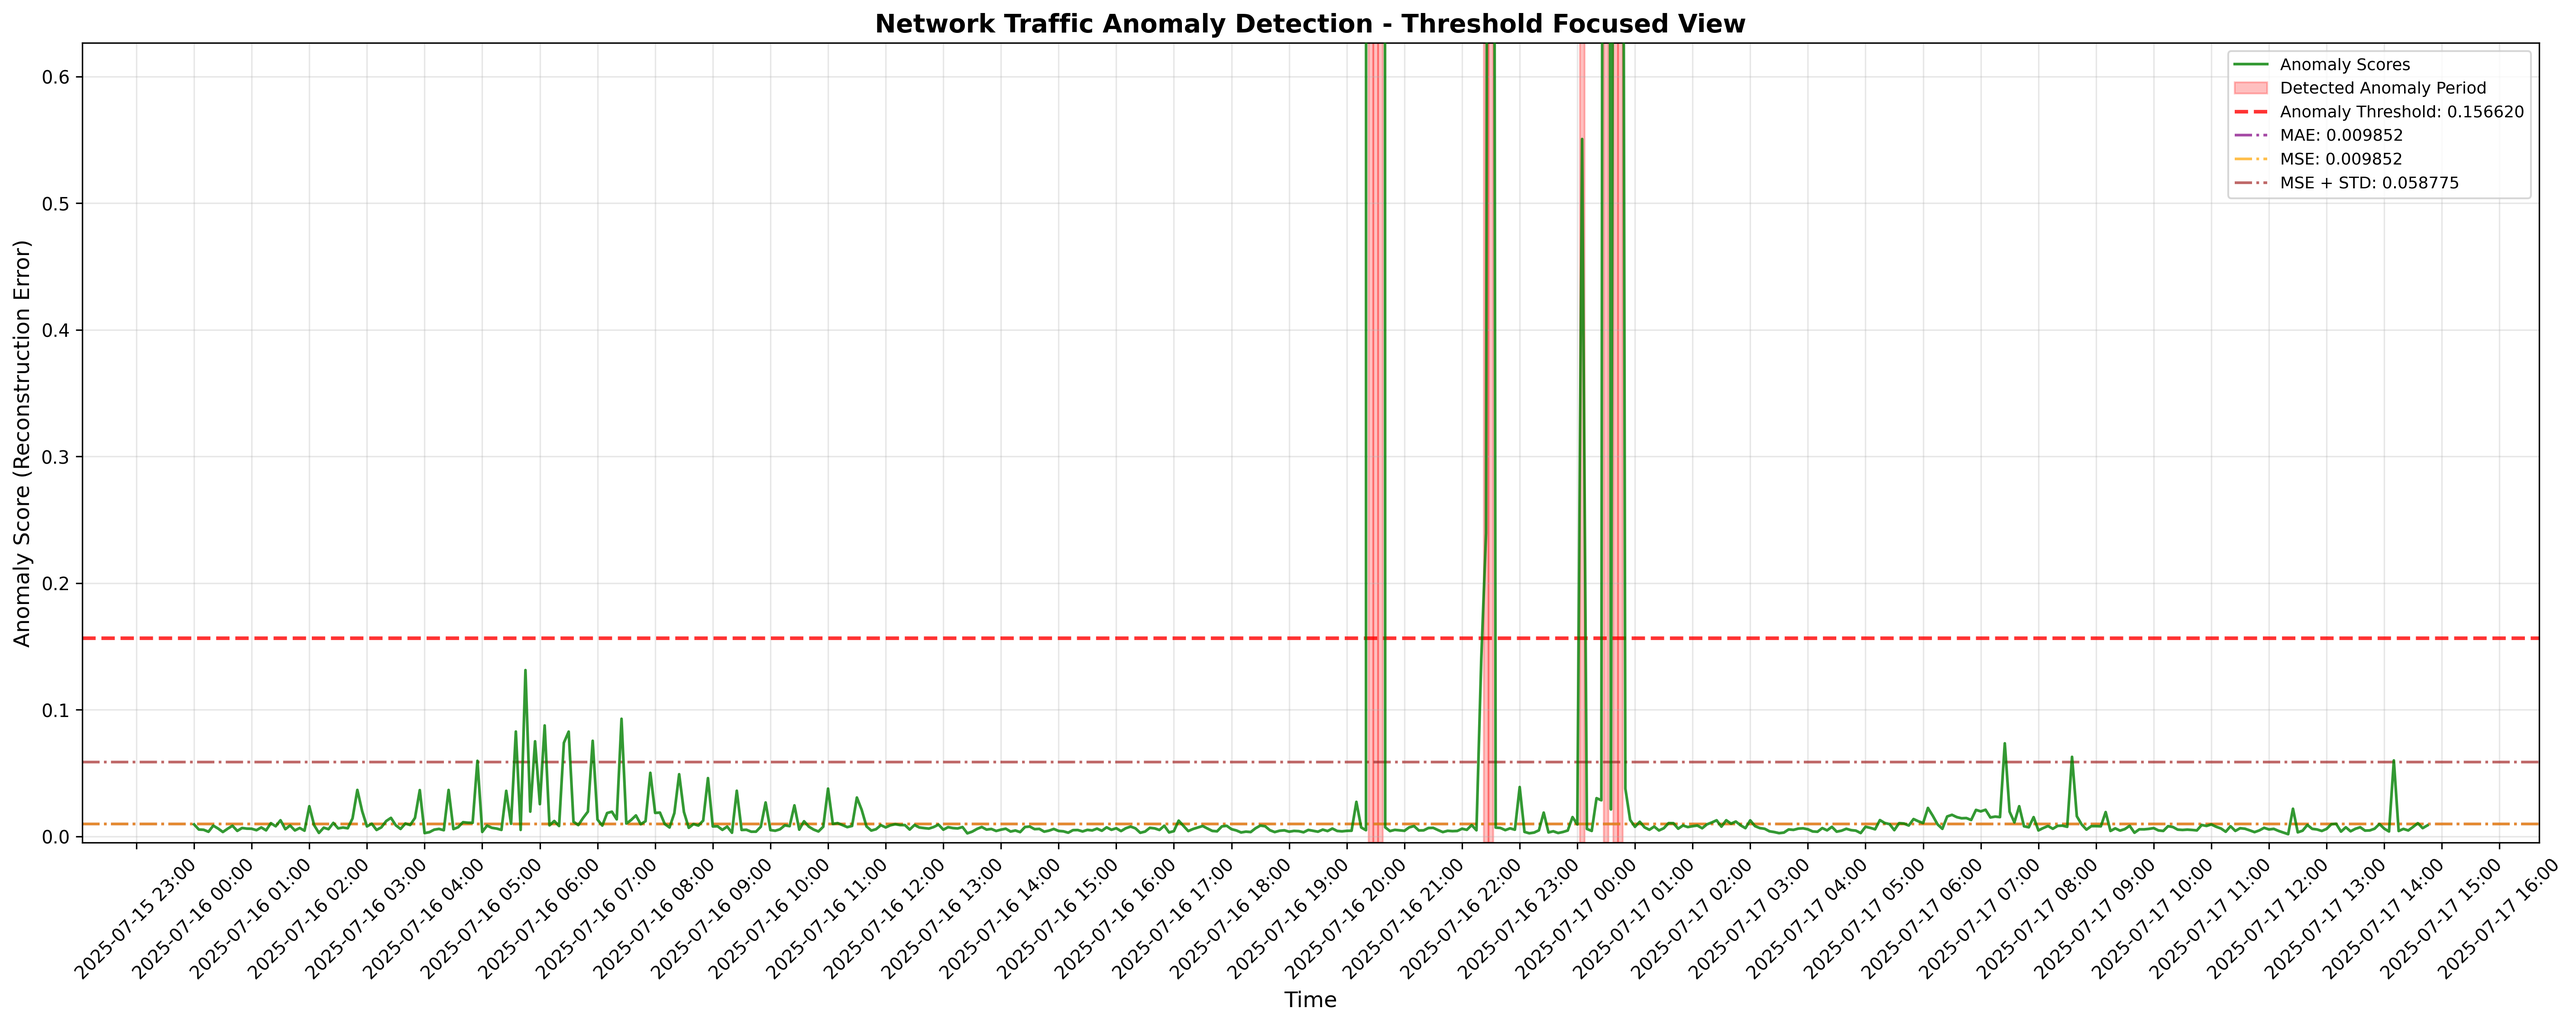
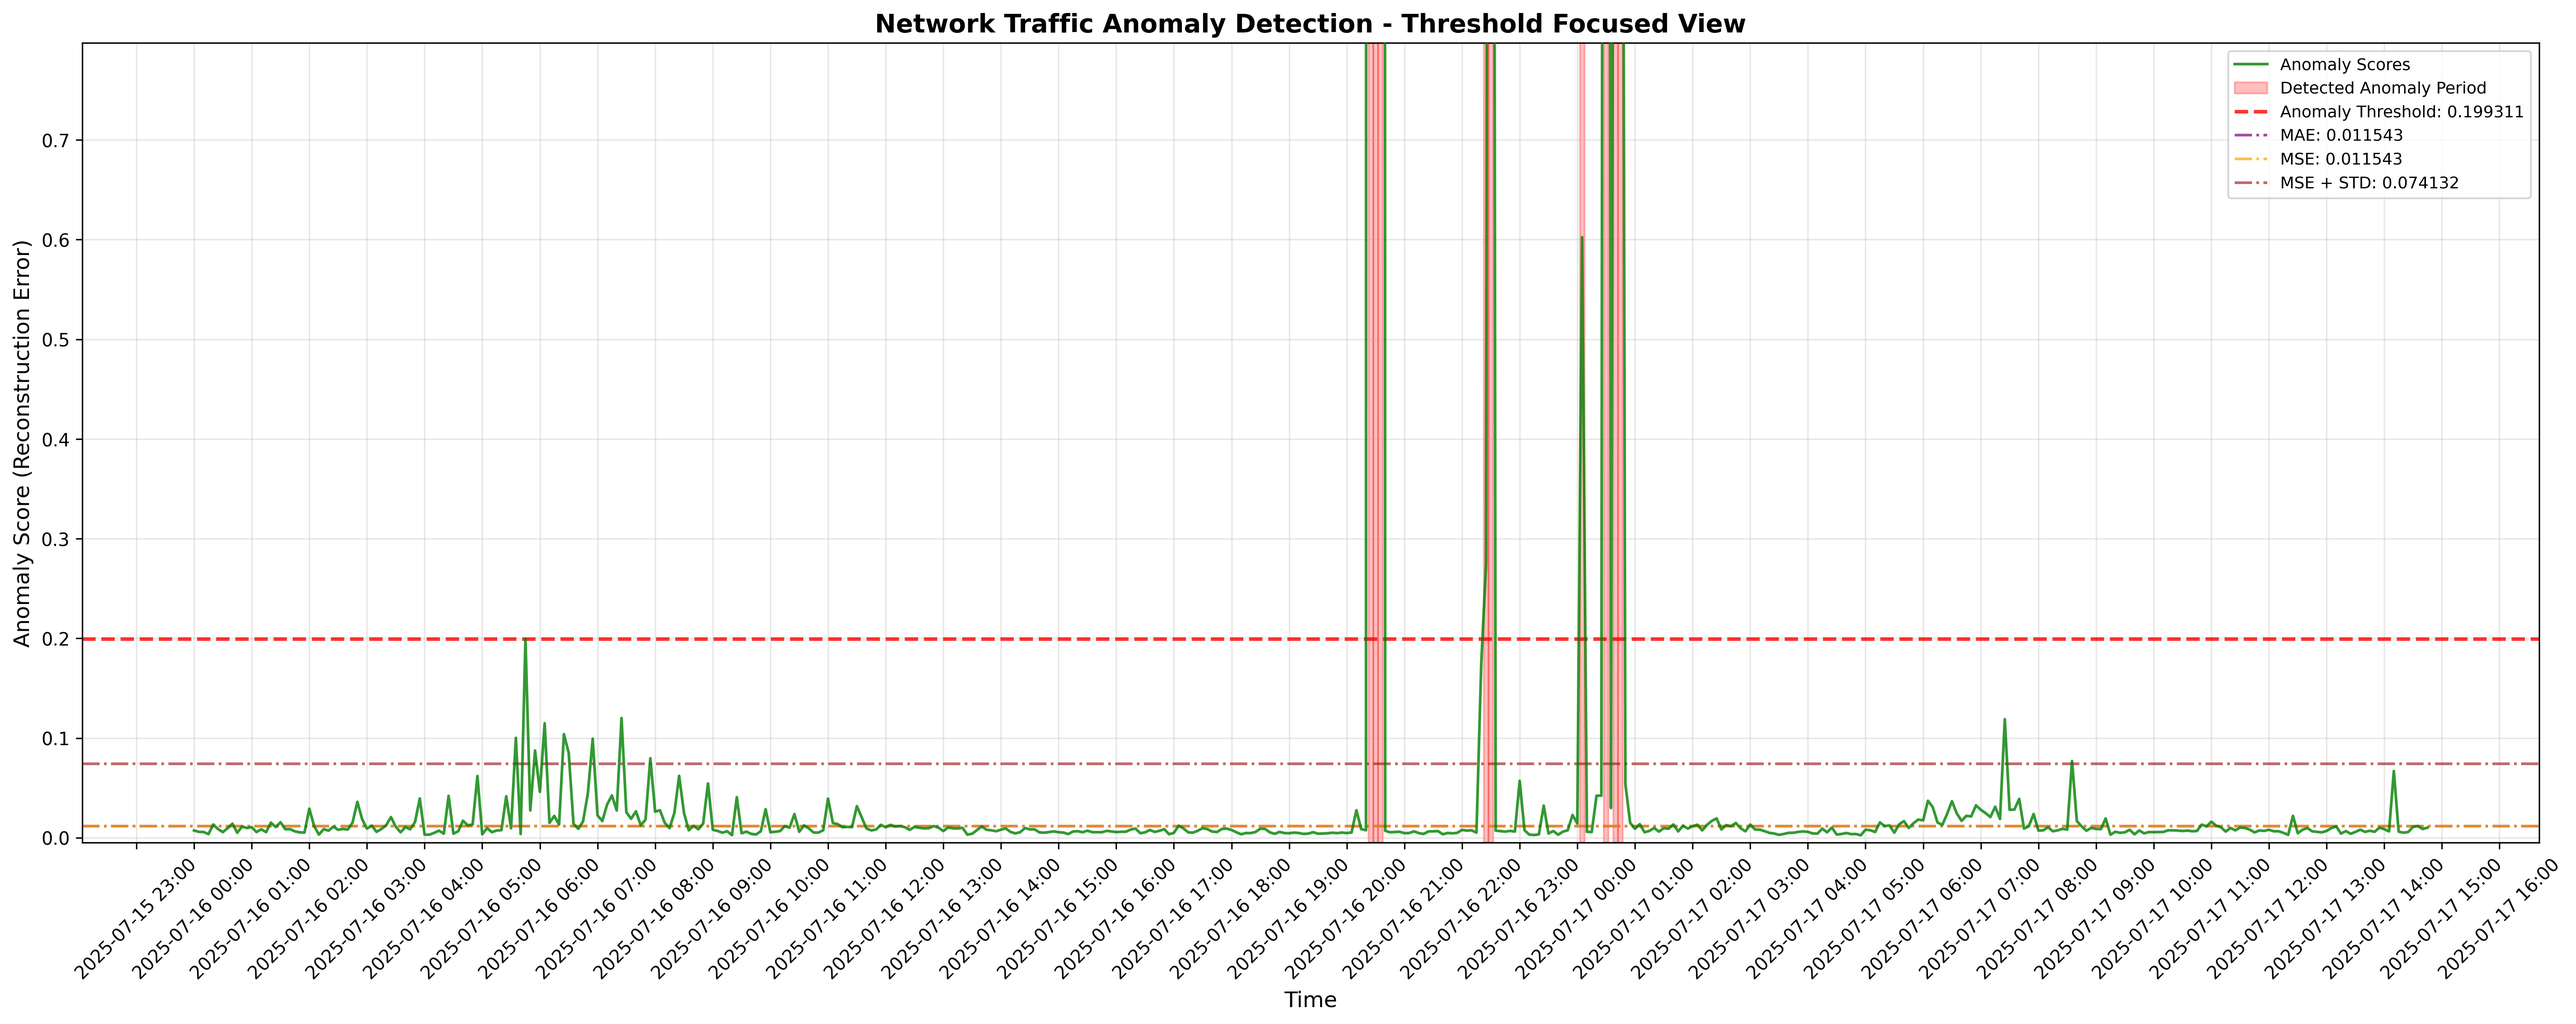
removing unused features and adding new metrics evaluation

diff --git a/framework/evaluation.py b/framework/evaluation.py
@@ -1,6 +1,10 @@
 import numpy as np
 import pandas as pd
-from sklearn.metrics import confusion_matrix, classification_report
+from sklearn.metrics import (
+    confusion_matrix, classification_report, matthews_corrcoef,
+    precision_score, recall_score, roc_auc_score, fbeta_score,
+    accuracy_score, f1_score
+)
 import os
 from .visualization.evaluation_plots import EvaluationVisualizer
 from config import ATTACK_PERIODS
@@ -58,16 +62,31 @@ class GroundTruthEvaluator:
         return ground_truth_labels, detection_labels, gt_threshold
     
     def calculate_metrics(self, y_true, y_pred):
-        """Calculate performance metrics."""
+        """Calculate comprehensive performance metrics."""
         # Confusion matrix
         tn, fp, fn, tp = confusion_matrix(y_true, y_pred).ravel()
         
-        # Calculate metrics
+        # Basic metrics
         precision = tp / (tp + fp) if (tp + fp) > 0 else 0
         recall = tp / (tp + fn) if (tp + fn) > 0 else 0
         f1 = 2 * (precision * recall) / (precision + recall) if (precision + recall) > 0 else 0
         accuracy = (tp + tn) / (tp + tn + fp + fn)
         fpr = fp / (fp + tn) if (fp + tn) > 0 else 0
+        
+        # Additional comprehensive metrics
+        mcc = matthews_corrcoef(y_true, y_pred)
+        missrate = fn / (fn + tp) if (fn + tp) > 0 else 0  # False Negative Rate
+        fallout = fp / (fp + tn) if (fp + tn) > 0 else 0   # False Positive Rate (same as fpr)
+        
+        # ROC AUC score
+        try:
+            auc = roc_auc_score(y_true, y_pred)
+        except ValueError:
+            # Handle case where only one class is present
+            auc = 0.0
+        
+        # F-beta scores
+        f2_score = fbeta_score(y_true, y_pred, beta=2, zero_division=0)
         
         return {
             'true_positives': tp,
@@ -79,6 +98,11 @@ class GroundTruthEvaluator:
             'f1_score': f1,
             'accuracy': accuracy,
             'false_positive_rate': fpr,
+            'matthews_corrcoef': mcc,
+            'miss_rate': missrate,
+            'fallout': fallout,
+            'roc_auc_score': auc,
+            'f2_score': f2_score,
             'total_samples': len(y_true),
             'attack_periods': np.sum(y_true),
             'detected_anomalies': np.sum(y_pred)
@@ -96,12 +120,23 @@ class GroundTruthEvaluator:
         print(f"Actual Normal   {metrics['true_negatives']:6d}  {metrics['false_positives']:6d}")
         print(f"       Attack   {metrics['false_negatives']:6d}  {metrics['true_positives']:6d}")
         
-        print(f"\nPerformance Metrics:")
+        print(f"\nBasic Performance Metrics:")
         print(f"  Accuracy:          {metrics['accuracy']:.4f}")
         print(f"  Precision:         {metrics['precision']:.4f}")
         print(f"  Recall:            {metrics['recall']:.4f}")
         print(f"  F1-Score:          {metrics['f1_score']:.4f}")
-        print(f"  False Positive Rate: {metrics['false_positive_rate']:.4f}\n")
+        print(f"  F2-Score:          {metrics['f2_score']:.4f}")
+        
+        print(f"\nAdvanced Performance Metrics:")
+        print(f"  Matthews Correlation Coefficient: {metrics['matthews_corrcoef']:.4f}")
+        print(f"  ROC AUC Score:     {metrics['roc_auc_score']:.4f}")
+        print(f"  Miss Rate (FNR):   {metrics['miss_rate']:.4f}")
+        print(f"  Fallout (FPR):     {metrics['fallout']:.4f}")
+        
+        print(f"\nSample Distribution:")
+        print(f"  Total Samples:     {metrics['total_samples']:,}")
+        print(f"  Attack Periods:    {metrics['attack_periods']:,}")
+        print(f"  Detected Anomalies: {metrics['detected_anomalies']:,}\n")
         
     def create_evaluation_plots(self, test_data, y_true, y_pred, detection_threshold, gt_threshold, metrics):
         """Create evaluation visualizations using the EvaluationVisualizer."""
@@ -130,3 +165,26 @@ class GroundTruthEvaluator:
         self.create_evaluation_plots(test_data, y_true, y_pred, detection_threshold, gt_threshold, metrics)
         
         return metrics
+    
+    def eval_learning(self, y_test, preds):
+        """
+        Comprehensive evaluation function similar to the suggested implementation.
+        Returns all metrics as individual values for easy use.
+        """
+        acc = accuracy_score(y_test, preds)
+        rec = recall_score(y_test, preds, zero_division=0)
+        prec = precision_score(y_test, preds, zero_division=0)
+        f1 = f1_score(y_test, preds, zero_division=0)
+        mcc = matthews_corrcoef(y_test, preds)
+        tn, fp, fn, tp = confusion_matrix(y_test, preds).ravel()
+        missrate = fn / (fn + tp) if (fn + tp) > 0 else 0
+        fallout = fp / (fp + tn) if (fp + tn) > 0 else 0
+        
+        try:
+            auc = roc_auc_score(y_test, preds)
+        except ValueError:
+            auc = 0.0
+            
+        f2_value = fbeta_score(y_test, preds, beta=2, zero_division=0)
+
+        return acc, rec, prec, f1, mcc, missrate, fallout, auc, f2_value

diff --git a/framework/features.py b/framework/features.py
@@ -54,9 +54,7 @@ class NetworkFeatureExtractor:
                 'ack_flag_ratio': 0,
                 'fin_flag_ratio': 0,
                 'rst_flag_ratio': 0,
-                'psh_flag_ratio': 0,
-                'urg_flag_ratio': 0,
-                'unique_flag_combinations': 0
+                'psh_flag_ratio': 0
             }
         
         # Convert to string and handle NaN values
@@ -69,9 +67,7 @@ class NetworkFeatureExtractor:
                 'ack_flag_ratio': 0,
                 'fin_flag_ratio': 0,
                 'rst_flag_ratio': 0,
-                'psh_flag_ratio': 0,
-                'urg_flag_ratio': 0,
-                'unique_flag_combinations': 0
+                'psh_flag_ratio': 0
             }
         
         # Count individual flags (assuming typical flag representation)
@@ -80,15 +76,12 @@ class NetworkFeatureExtractor:
         fin_count = sum(1 for f in valid_flags if 'F' in f)
         rst_count = sum(1 for f in valid_flags if 'R' in f)
         psh_count = sum(1 for f in valid_flags if 'P' in f)
-        urg_count = sum(1 for f in valid_flags if 'U' in f)
         
         flag_features['syn_flag_ratio'] = syn_count / total_flows
         flag_features['ack_flag_ratio'] = ack_count / total_flows
         flag_features['fin_flag_ratio'] = fin_count / total_flows
         flag_features['rst_flag_ratio'] = rst_count / total_flows
         flag_features['psh_flag_ratio'] = psh_count / total_flows
-        flag_features['urg_flag_ratio'] = urg_count / total_flows
-        flag_features['unique_flag_combinations'] = len(set(valid_flags))
         
         return flag_features
 
@@ -131,24 +124,18 @@ class NetworkFeatureExtractor:
             
             # IP diversity
             feature_row['unique_src_ips'] = group['srcAddr'].nunique()
-            feature_row['unique_dst_ips'] = group['dstAddr'].nunique()
             feature_row['src_ip_entropy'] = self.calculate_port_entropy(group['srcAddr'].values)
-            feature_row['dst_ip_entropy'] = self.calculate_port_entropy(group['dstAddr'].values)
             
             # AS (Autonomous System) features
             feature_row['unique_src_as'] = group['srcAS'].nunique()
-            feature_row['unique_dst_as'] = group['dstAS'].nunique()
             feature_row['src_as_entropy'] = self.calculate_as_entropy(group['srcAS'].values)
-            feature_row['dst_as_entropy'] = self.calculate_as_entropy(group['dstAS'].values)
             
             # AS diversity ratio
             feature_row['as_diversity_ratio'] = feature_row['unique_src_as'] / max(feature_row['unique_src_ips'], 1)
             
             # Geographic features
             feature_row['unique_src_geo'] = group['srcGeo'].nunique()
-            feature_row['unique_dst_geo'] = group['dstGeo'].nunique()
             feature_row['src_geo_entropy'] = self.calculate_geo_entropy(group['srcGeo'].values)
-            feature_row['dst_geo_entropy'] = self.calculate_geo_entropy(group['dstGeo'].values)
             
             # Cross-border traffic ratio
             cross_border = group[group['srcGeo'] != group['dstGeo']]
